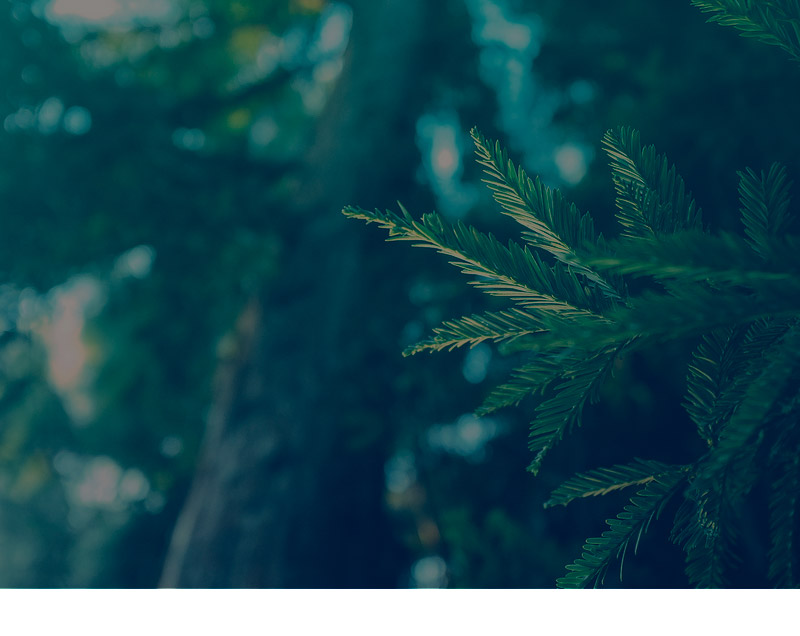
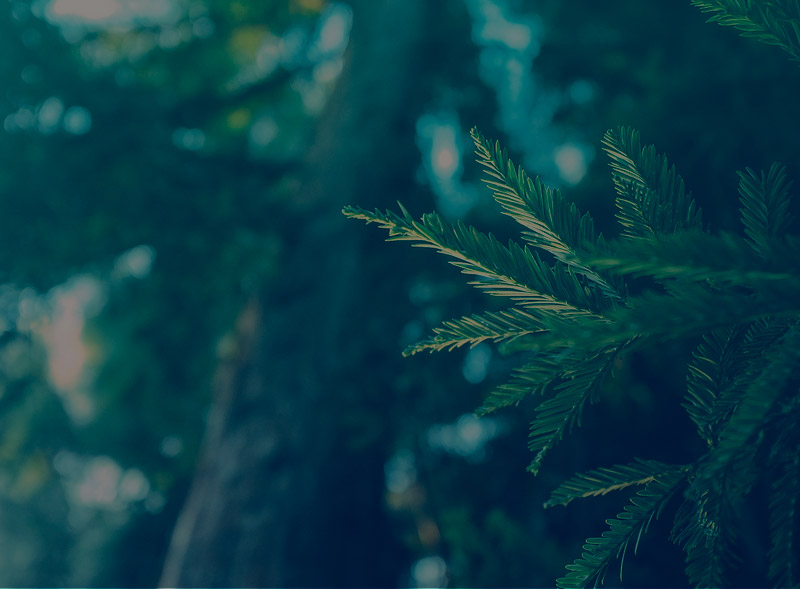
сверстал content-info

diff --git a/index.html b/index.html
@@ -37,5 +37,26 @@
             GET YOUR COPY NOW
         </button>
     </header>
+    <div class="content-info">
+        <div class="container">
+            <ul class="content-info__list">
+                <li class="content-info__item">
+                    <img class="content-info__photo" src="./images/user-group copy.png" alt="user-group">
+                    <h3 class="content-info__title">PROFESIONALS</h3>
+                    <p class="content-info__text">Lorem ipsum dolor sit amet consectetur elit.</p>
+                </li>
+                <li class="content-info__item">
+                    <img class="content-info__photo" src="./images/heart.png" alt="heart">
+                    <h3 class="content-info__title">AMATEURS</h3>
+                    <p class="content-info__text">Lorem ipsum dolor sit amet consectetur elit.</p>
+                </li>
+                <li class="content-info__item">
+                    <img class="content-info__photo" src="./images/headset.png" alt="head">
+                    <h3 class="content-info__title">FOR EVERYONE</h3>
+                    <p class="content-info__text">Lorem ipsum dolor sit amet consectetur elit.</p>
+                </li>
+            </ul>
+        </div>
+    </div>
 </body>
 </html>                                

diff --git a/style.css b/style.css
@@ -14,7 +14,7 @@ body {
     background-image: url(./images/header-bg.jpg);
     background-repeat: no-repeat;
     background-size: cover;
-    height: 108vh;
+    height: 100vh;
 }
 
 .header__logo {
@@ -105,4 +105,57 @@ body {
 .header__btn:hover {
     background-color: #46a796;
     cursor: pointer;
+}
+
+.content-info {
+    background-color: #eeeeef;
+}
+
+.container {
+    width: 600px;
+    margin: 0 auto;
+    padding: 55px 0;
+}
+
+.content-info__list {
+    display: flex;
+    justify-content: space-between;
+    align-items: center;
+    list-style: none;
+}
+
+.content-info__item {
+    width: 181px;
+    position: relative;
+}
+
+.content-info__photo {
+    display: block;
+    margin: 0 auto;
+    width: 40px;
+    height: 40px;
+}
+
+.content-info__title {
+    text-align: center;
+    margin: 30px 0 45px;
+    font-size: 16px;
+    color: #384048;
+    font-weight: normal;
+}
+
+.content-info__text {
+    font-size: 14px;
+    color: #787b80;
+    text-align: center;
+}
+
+.content-info__title::after {
+    content: "";
+    position: absolute;
+    background-color: #e2e3e4;
+    height: 2px;
+    width: 135px;
+    top: 110px; 
+    left: 20px;
 }
